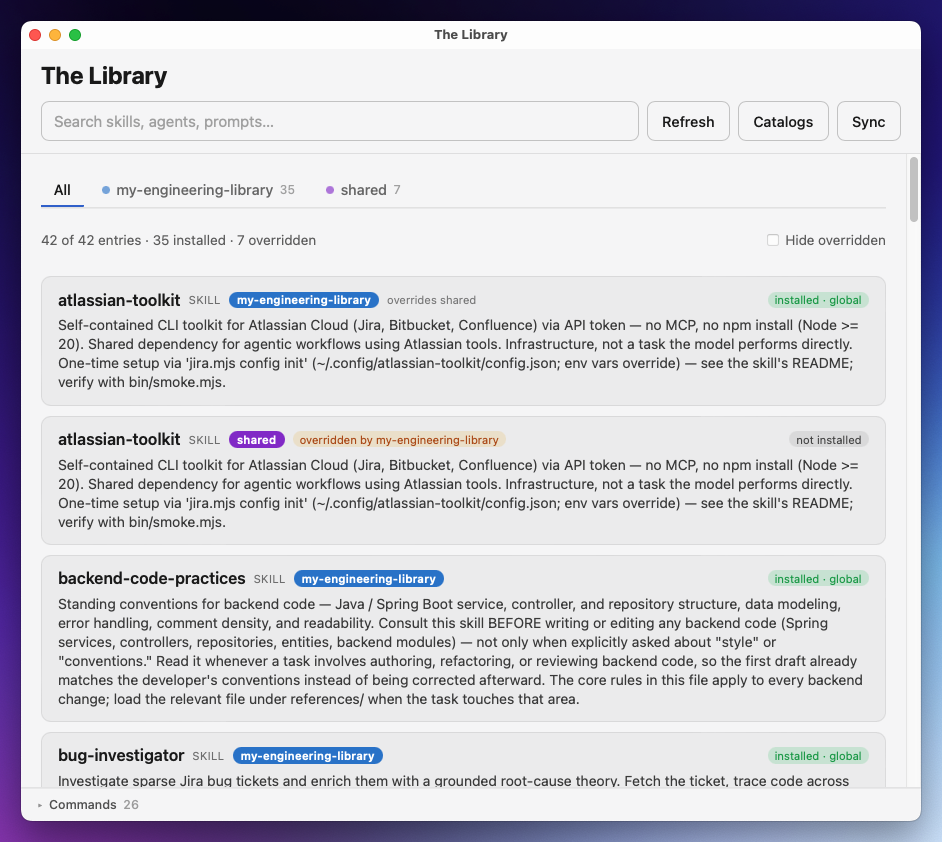
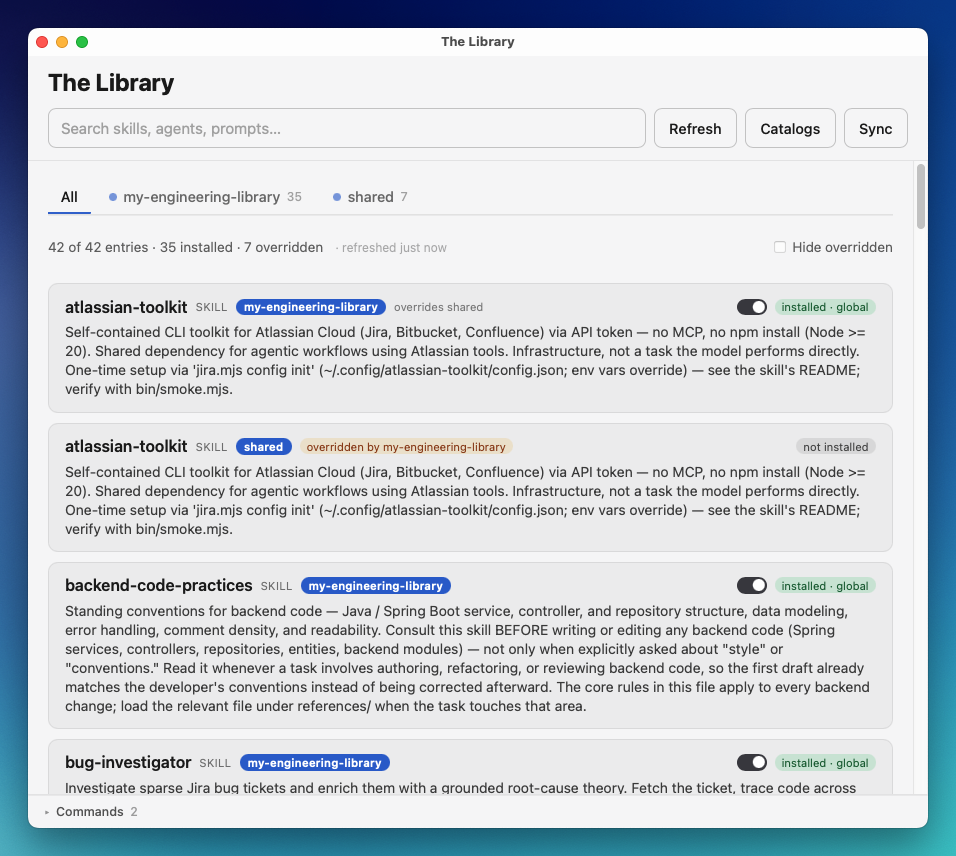
docs: Add a disable walkthrough to the README and refresh the screenshots
* Add a "Switch a skill off without uninstalling it" section with disable-preview.gif, showing the switch, the violet badge, the disabled tab and the toast
* Re-shoot hero.png and install-preview.gif against the reworked UI — the old ones predated the toggle entirely, so they showed no switches, no disabled tab and the previous badge colours
* Shrink both gifs with `gifsicle -O3 --colors 128` (12.2MB to 10.0MB, full resolution, every frame kept)

The desktop section now runs browse, install, switch off — the toggle was the one headline feature with no picture of it. Palette reduction is all the compression these take without visible artifacts; the recordings are dense and sit on a photo background, which defeats both the colour table and the delta encoding.

diff --git a/README.md b/README.md
@@ -49,6 +49,16 @@ Pick a skill and the app previews every file it would write — the skill itself
 dependencies it pulls in — before anything touches disk. Install, and the entry's badge flips to
 installed.
 
+### Switch a skill off without uninstalling it
+
+![Switching a skill off from the catalog list: the row's badge turns violet and a disabled tab appears](images/desktop/disable-preview.gif)
+
+Flip the switch and the skill stops loading without leaving your machine — switching it back on is
+a move, not a re-fetch. A `disabled` tab appears at the end of the strip, so what you have parked
+stays findable instead of vanishing from the list. Claude Code reads its skills when a session
+starts, so the change lands in your next session rather than one you already have open, and the app
+says so rather than letting you find out.
+
 **Getting it:** build it once from your own clone (`just app-setup && just app-install`), then
 launch it like any Mac app. Building needs **Node ≥ 20** and the **Rust toolchain** (Tauri's
 backend compiles from source) — install and PATH notes, full build steps, and the guided-setup
